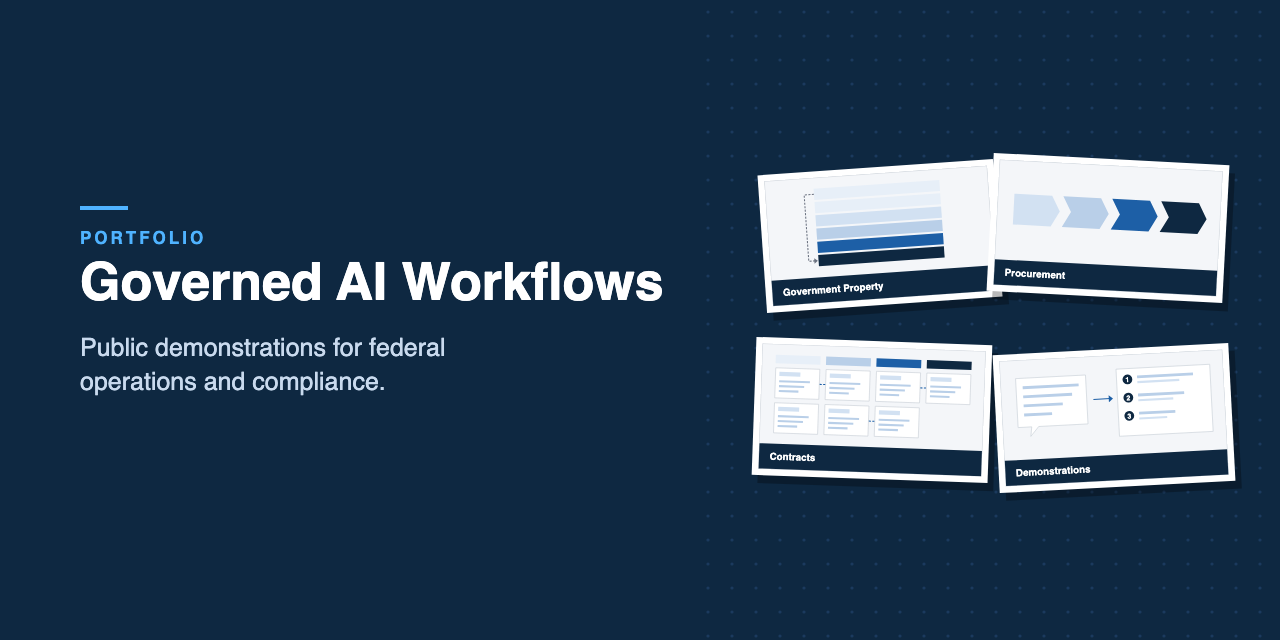
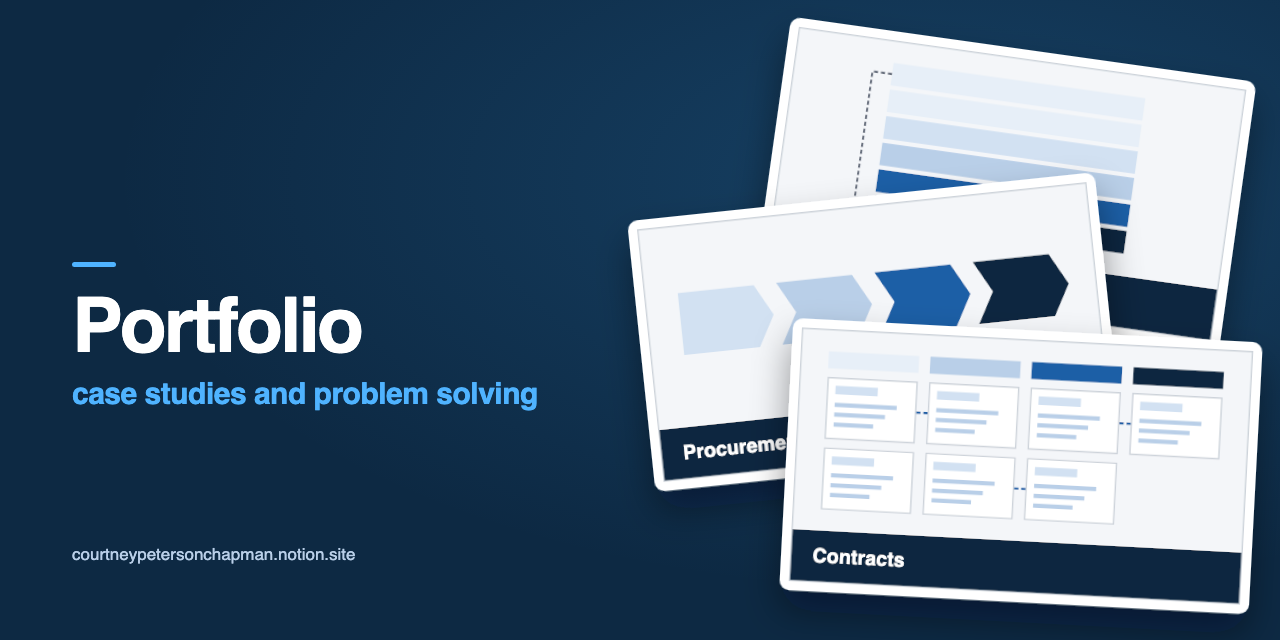
Refresh GitHub profile cards
Use the supplied solutions and portfolio graphics, route the cards and text links to their intended destinations, and promote Domain experience to a section heading.

Changed region(s): [[0.0625, 0.0312, 1.0, 0.9688], [0.0625, 0.8438, 0.2812, 0.875]]

diff --git a/README.md b/README.md
@@ -6,11 +6,12 @@ I design and build solutions to complex business, financial, and operational pro
 
 ## Explore my work
 
-<a href="https://courtney-chapman.github.io/tools-public/"><img src="images/tools.png" alt="Audit-ready by design, built by Courtney. Solutions for government contractors. Not every problem needs another enterprise system. Start in minutes, not months." width="49%"></a>
-<a href="https://github.com/courtney-chapman/portfolio-public"><img src="images/portfolio.png" alt="Portfolio: governed AI workflows, public demonstrations for federal operations and compliance." width="49%"></a>
+<a href="https://courtney-chapman.github.io/tools-public/"><img src="images/tools.png" alt="Solutions for government contracting." width="49%"></a>
+<a href="https://courtneypetersonchapman.notion.site/"><img src="images/portfolio.png" alt="Portfolio: case studies and problem solving." width="49%"></a>
 
-- [Solutions for Government Contractors](https://courtney-chapman.github.io/tools-public/) — explore browser apps and AI plugins.
-- [Project Portfolio](https://github.com/courtney-chapman/portfolio-public) — see demonstrations, design decisions, and related projects.
+- [Solutions for Government Contractors](https://courtney-chapman.github.io/tools-public/) — apps and AI tools for procurement, government property, and contracts.
+- [Portfolio](https://courtneypetersonchapman.notion.site/) — case studies and problem solving.
+- [Demonstrations](https://github.com/courtney-chapman/portfolio-public) — governed AI workflow demonstrations, design decisions, and related projects.
 
 ## What I build
 
@@ -27,10 +28,11 @@ I design and build solutions to complex business, financial, and operational pro
 - **Development and automation:** HTML · CSS · JavaScript · VBA/macros · Power Automate · Workato
 - **Enterprise systems and platforms:** SAP Ariba · Deltek Costpoint · JAGGAER · Unanet · Salesforce · ServiceNow · Documentum · Jira · Confluence
 
-**Domain experience:** Enterprise finance and project controls; procurement, contracts, and supply chain; government property and regulatory compliance; business development and transformation—primarily in federal government contracting and complex enterprise environments.
+## Domain experience
+
+Enterprise finance and project controls; procurement, contracts, and supply chain; government property and regulatory compliance; business development and transformation—primarily in federal government contracting and complex enterprise environments.
 
 ## More links
 
-- [Visual Portfolio](https://courtneypetersonchapman.notion.site/) — a designed overview of selected work.
 - [How I Work](https://raw.githubusercontent.com/courtney-chapman/portfolio-public/main/01-projects/How%20I%20Work.pdf) — a slide deck on how I diagnose problems and design solutions.
 - [LinkedIn](https://www.linkedin.com/in/courtney-peterson-chapman/) — professional experience and background.
